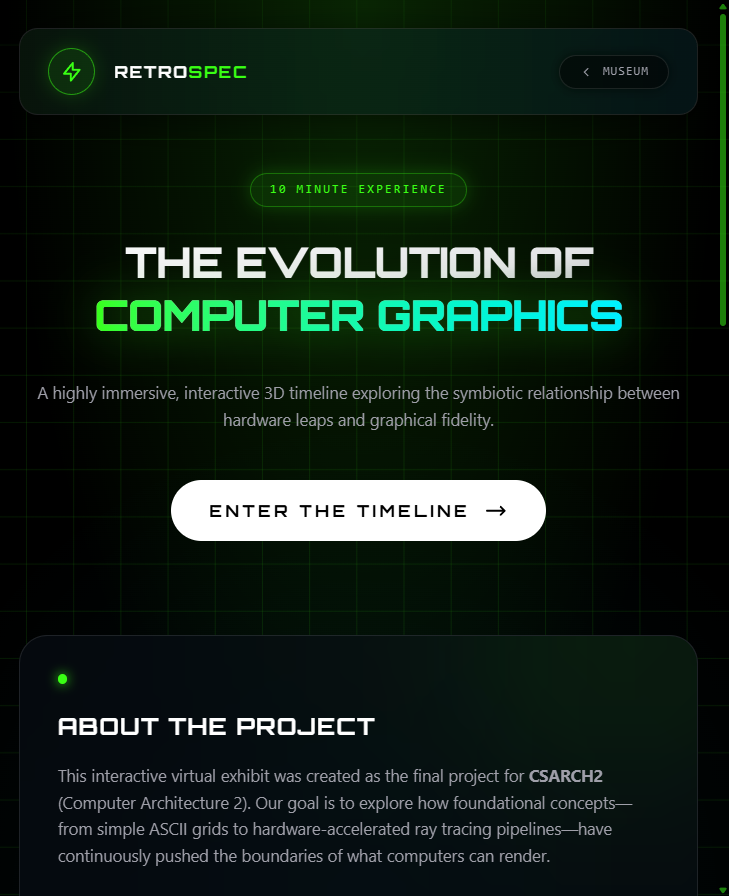
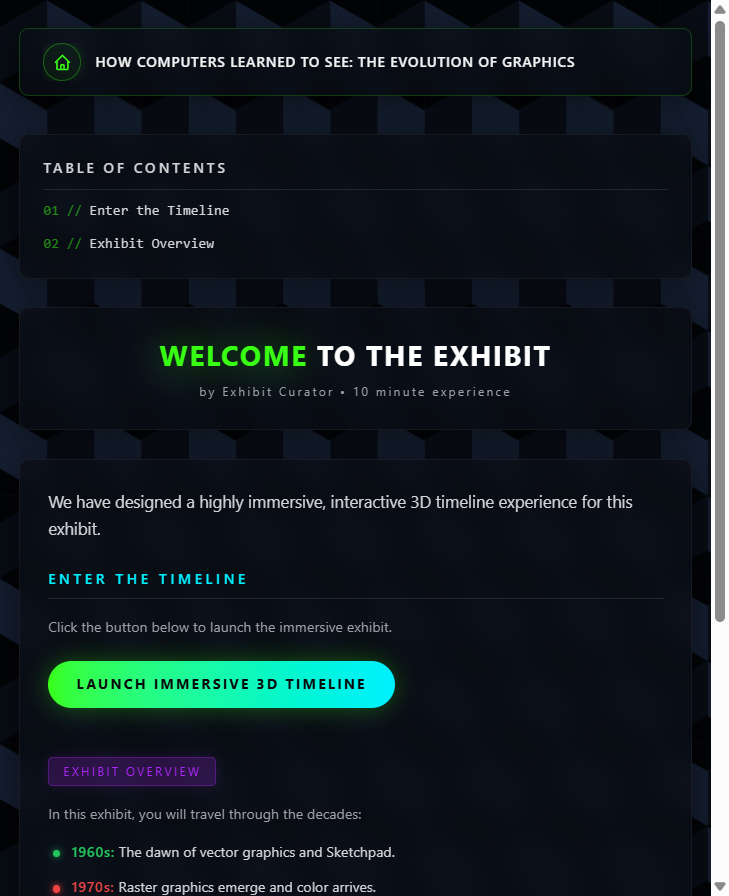
update

diff --git a/index.html b/index.html
@@ -1002,7 +1002,7 @@
       </div>
 
       <article class="feature proj" data-id="backlog">
-        <div class="shot can-open" data-open="backlog"><span class="peek" aria-hidden="true">View gallery</span><img src="images/backlog-hero.jpg"
+        <div class="shot can-open" data-open="backlog"><span class="peek" aria-hidden="true">View gallery</span><img src="images/backlog-hero-live-home.png"
             alt="Backlog Hero dashboard with library stats and trending games" loading="lazy"></div>
         <div>
           <p class="kind">Full-stack web app <span class="state">Completed</span></p>
@@ -1133,11 +1133,11 @@
           <div class="body">
             <p class="kind">Group project <span class="state">Completed</span></p>
             <h3>RetroSpec virtual exhibit</h3>
-            <p class="desc">An interactive web exhibit about the evolution of computer graphics, built as an Astro site with a responsive presentation and visual demonstrations.</p>
-            <ul class="tech" aria-label="Built with"><li>Astro</li><li>JavaScript</li><li>TypeScript</li><li>Tailwind CSS</li></ul>
-            <div class="acts"><a class="btn sm pri" href="https://case-study-project-grp-4-csarch2-e39f.onrender.com/" target="_blank" rel="noopener"><svg aria-hidden="true">
+            <p class="desc">An interactive virtual exhibit about the evolution of computer graphics, created for CSARCH2 and presented as a decade-by-decade timeline with an immersive 3D experience.</p>
+              <ul class="tech" aria-label="Built with"><li>Astro</li><li>React</li><li>Three.js</li><li>Tailwind CSS</li><li>MDX</li></ul>
+            <div class="acts"><a class="btn sm pri" href="https://mysteriouskimsajaang.github.io/case-study-project-grp-4-csarch2/" target="_blank" rel="noopener"><svg aria-hidden="true">
                   <use href="#i-play" />
-                </svg>Open exhibit</a><a class="src" href="https://github.com/mysteriouskimsajaang/virtual-exhibit-template" target="_blank" rel="noopener"><svg aria-hidden="true">
+                </svg>Open exhibit</a><a class="src" href="https://github.com/mysteriouskimsajaang/case-study-project-grp-4-csarch2" target="_blank" rel="noopener"><svg aria-hidden="true">
                   <use href="#i-gh" />
                 </svg>View source</a><div class="btns"><button class="btn sm" type="button" data-open="retro">Details</button></div></div>
           </div>
@@ -1317,15 +1317,16 @@
   <script>
     (function () {
       var D = JSON.parse(document.getElementById('pdata').textContent), P = D.p, O = D.order;
+      P.backlog.shots = [['images/backlog-hero-live-home.png', 'Live Backlog Hero landing page'], ['images/backlog-hero-live-search.png', 'Live Backlog Hero game search page']];
       P.retro = {
         title: 'RetroSpec virtual exhibit',
         kind: 'Group project',
         status: 'Completed',
-        desc: 'An interactive web exhibit about the evolution of computer graphics, built as an Astro site with a responsive presentation and visual demonstrations.',
-        points: ['Explains the evolution of computer graphics from ASCII and early displays to modern real-time rendering', 'Presents research and visual examples in an interactive web experience', 'Uses Astro, JavaScript, TypeScript and Tailwind CSS for the site'],
-        tech: ['Astro', 'JavaScript', 'TypeScript', 'Tailwind CSS'],
-        repo: 'https://github.com/mysteriouskimsajaang/virtual-exhibit-template',
-        shots: [['images/retrospec-exhibit.png', 'RetroSpec virtual exhibit homepage']]
+        desc: 'An interactive virtual exhibit about the evolution of computer graphics, created for CSARCH2 and presented as a decade-by-decade timeline with an immersive 3D experience.',
+        points: ['Explains the evolution of computer graphics from ASCII and early displays to modern real-time rendering', 'Presents an exhibit overview and an immersive timeline spanning the 1960s through the 2020s', 'Uses Astro, React, Three.js, Tailwind CSS and MDX'],
+        tech: ['Astro', 'React', 'Three.js', 'Tailwind CSS', 'MDX'],
+        repo: 'https://github.com/mysteriouskimsajaang/case-study-project-grp-4-csarch2',
+        shots: [['images/retrospec-exhibit.png', 'Live RetroSpec virtual exhibit homepage']]
       };
       P.catbot = {
         title: 'Catbot reinforcement-learning environment',
